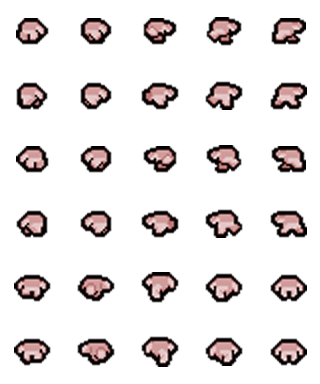
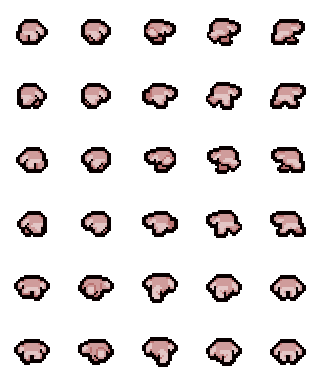
wip
- HeadDir 기능 구현 필요

diff --git a/The Binding of Isaac(Rebirth)/Player.cpp b/The Binding of Isaac(Rebirth)/Player.cpp
@@ -19,22 +19,31 @@ void APlayer::BeginPlay()
 	FVector HalfScale = GEngine->MainWindow.GetWindowScale().Half2D();
 	SetActorLocation(HalfScale);
 
-	/*{
-		HeadRenderer = CreateImageRenderer(IsaacRenderOrder::Player);
+	{
+		HeadRenderer = CreateImageRenderer(IsaacRenderOrder::PlayerHead);
 		HeadRenderer->SetImage("Head.png");
-		HeadRenderer->SetTransform({ { 0,0 }, { 50,50 } });
-		HeadRenderer->SetImageCuttingTransform({ {0,0}, {30, 30} });
-	}*/
+		HeadRenderer->SetTransform({ { 0,0 }, { 64,64 } });
+		HeadRenderer->CreateAnimation("HeadIdle", "Head.png", 7, 7, 0.1f, true);
+		HeadRenderer->CreateAnimation("HeadMove_Left", "Head.png", 1, 1, 0.1f, true);
+		HeadRenderer->CreateAnimation("HeadMove_Right", "Head.png", 3, 3, 0.1f, true);
+		HeadRenderer->CreateAnimation("HeadMove_Up", "Head.png", 5, 5, 0.1f, true);
+		HeadRenderer->CreateAnimation("HeadMove_Down", "Head.png", 7, 7, 0.1f, true);
+		
+		HeadRenderer->CreateAnimation("Attack_Left", "Head.png", 0, 1, fireRate, true);
+		HeadRenderer->CreateAnimation("Attack_Right", "Head.png", 2, 3, fireRate, true);
+		HeadRenderer->CreateAnimation("Attack_Up", "Head.png", 4, 5, fireRate, true);
+		HeadRenderer->CreateAnimation("Attack_Down", "Head.png", 6, 7, fireRate, true);
+	}
 
 	{
-		BodyRenderer = CreateImageRenderer(IsaacRenderOrder::Player);
+		BodyRenderer = CreateImageRenderer(IsaacRenderOrder::PlayerBody);
 		BodyRenderer->SetImage("Body.png");
-		BodyRenderer->SetTransform({ { 0,10 }, {64,64} });
-		BodyRenderer->CreateAnimation("Idle", "Body.png", 20, 20, 0.1f, true);
-		BodyRenderer->CreateAnimation("Move_Right", "Body.png", 10, 19, 0.1f, true);
-		BodyRenderer->CreateAnimation("Move_Left", "Body.png", 0, 9, 0.1f, true);
-		BodyRenderer->CreateAnimation("Move_UP", "Body.png", 20, 29, 0.1f, true);
-		BodyRenderer->CreateAnimation("Move_Down", "Body.png", 20, 29, 0.1f, true);
+		BodyRenderer->SetTransform({ { 0,28 }, {64,64} });
+		BodyRenderer->CreateAnimation("BodyIdle", "Body.png", 24, 24, 0.1f, true);
+		BodyRenderer->CreateAnimation("BodyMove_Left", "Body.png", 0, 9, 0.1f, true);
+		BodyRenderer->CreateAnimation("BodyMove_Right", "Body.png", 10, 19, 0.1f, true);
+		BodyRenderer->CreateAnimation("BodyMove_UP", "Body.png", 20, 29, 0.1f, true);
+		BodyRenderer->CreateAnimation("BodyMove_Down", "Body.png", 20, 29, 0.1f, true);
 	}
 
 	StateChange(EPlayState::Idle);
@@ -45,64 +54,60 @@ void APlayer::Tick(float _DeltaTime)
 	AActor::Tick(_DeltaTime);
 
 	StateUpdate(_DeltaTime);
-
-	//if (true == UEngineInput::IsPress('A'))
-	//{
-	//	AddActorLocation(FVector::Left * 500.0f * _DeltaTime);
-
-	//}
-
-	//if (true == UEngineInput::IsPress('D'))
-	//{
-	//	AddActorLocation(FVector::Right * 500.0f * _DeltaTime);
-	//}
-
-	//if (true == UEngineInput::IsPress('W'))
-	//{
-	//	AddActorLocation(FVector::Up * 500.0f * _DeltaTime);
-	//}
-
-	//if (true == UEngineInput::IsPress('S'))
-	//{
-	//	AddActorLocation(FVector::Down * 500.0f * _DeltaTime);
-	//}
-
-	//if (true == UEngineInput::IsDown('T'))
-	//{
-	//	BodyRenderer->Destroy();
-	//}
-
-	//if (true == UEngineInput::IsDown('Q'))
-	//{
-	//	ABullet* NewBullet = GetWorld()->SpawnActor<ABullet>();
-	//	NewBullet->SetActorLocation(GetActorLocation());
-	//	NewBullet->SetDir(FVector::Right);
-	//}
 }
 
-void APlayer::DirCheck()
+void APlayer::BodyDirCheck()
 {
-	EActorDir Dir = DirState;
+	EActorDir BodyDir = BodyDirState;
 	if (UEngineInput::IsPress('A'))
 	{
-		Dir = EActorDir::Left;
+		BodyDir = EActorDir::Left;
 	}
 	if (UEngineInput::IsPress('D'))
 	{
-		Dir = EActorDir::Right;
+		BodyDir = EActorDir::Right;
 	}
 	if (UEngineInput::IsPress('W'))
 	{
-		Dir = EActorDir::Up;
+		BodyDir = EActorDir::Up;
 	}
 	if (UEngineInput::IsPress('S'))
 	{
-		Dir = EActorDir::Down;
+		BodyDir = EActorDir::Down;
 	}
 
-	if (Dir != DirState)
+	if (BodyDir != BodyDirState)
 	{
-		DirState = Dir;
+		BodyDirState = BodyDir;
+		std::string Name = GetAnimationName(CurAnimationName);
+
+		BodyRenderer->ChangeAnimation(Name, true, BodyRenderer->GetCurAnimationFrame(), BodyRenderer->GetCurAnimationTime());
+	}
+}
+
+void APlayer::HeadDirCheck()
+{
+	EActorDir HeadDir = HeadDirState;
+	if (UEngineInput::IsPress(VK_LEFT))
+	{
+		HeadDir = EActorDir::Left;
+	}
+	if (UEngineInput::IsPress(VK_RIGHT))
+	{
+		HeadDir = EActorDir::Right;
+	}
+	if (UEngineInput::IsPress(VK_UP))
+	{
+		HeadDir = EActorDir::Up;
+	}
+	if (UEngineInput::IsPress(VK_DOWN))
+	{
+		HeadDir = EActorDir::Down;
+	}
+
+	if (HeadDir != HeadDirState)
+	{
+		HeadDirState = HeadDir;
 		std::string Name = GetAnimationName(CurAnimationName);
 
 		BodyRenderer->ChangeAnimation(Name, true, BodyRenderer->GetCurAnimationFrame(), BodyRenderer->GetCurAnimationTime());
@@ -113,7 +118,7 @@ std::string APlayer::GetAnimationName(std::string _Name)
 {
 	std::string DirName = "";
 
-	switch (DirState)
+	switch (BodyDirState)
 	{
 	case EActorDir::Left:
 		DirName = "_Left";
@@ -213,7 +218,7 @@ void APlayer::MoveUpdate(float _DeltaTime)
 void APlayer::CalMoveVector(float _DeltaTime)
 {
 	FVector CheckPos = GetActorLocation();
-	switch (DirState)
+	switch (BodyDirState)
 	{
 	case EActorDir::Left:
 		CheckPos.X -= 30;
@@ -269,7 +274,7 @@ void APlayer::MoveLastMoveVector(float _DeltaTime)
 
 void APlayer::Move(float _DeltaTime)
 {
-	DirCheck();
+	BodyDirCheck();
 
 	if (UEngineInput::IsFree('A') && UEngineInput::IsFree('D') && UEngineInput::IsFree('W') && UEngineInput::IsFree('S') &&
 		UEngineInput::IsFree(VK_LEFT) && UEngineInput::IsFree(VK_RIGHT) && UEngineInput::IsFree(VK_UP) && UEngineInput::IsFree(VK_DOWN))
@@ -300,47 +305,60 @@ void APlayer::Move(float _DeltaTime)
 
 void APlayer::Attack(float _DeltaTime)
 {
-	if (true == UEngineInput::IsDown(VK_LEFT))
+	BodyDirCheck();
+
+	if (UEngineInput::IsFree('A') && UEngineInput::IsFree('D') && UEngineInput::IsFree('W') && UEngineInput::IsFree('S') &&
+		UEngineInput::IsFree(VK_LEFT) && UEngineInput::IsFree(VK_RIGHT) && UEngineInput::IsFree(VK_UP) && UEngineInput::IsFree(VK_DOWN))
 	{
-		ABullet* NewBullet = GetWorld()->SpawnActor<ABullet>();
-		NewBullet->SetActorLocation(GetActorLocation());
-		NewBullet->SetDir(FVector::Left);
+		StateChange(EPlayState::Idle);
+		return;
 	}
-	if (true == UEngineInput::IsDown(VK_RIGHT))
-	{
-		ABullet* NewBullet = GetWorld()->SpawnActor<ABullet>();
-		NewBullet->SetActorLocation(GetActorLocation());
-		NewBullet->SetDir(FVector::Right);
-	}
-	if (true == UEngineInput::IsDown(VK_UP))
-	{
-		ABullet* NewBullet = GetWorld()->SpawnActor<ABullet>();
-		NewBullet->SetActorLocation(GetActorLocation());
-		NewBullet->SetDir(FVector::Up);
-	}
-	if (true == UEngineInput::IsDown(VK_DOWN))
-	{
-		ABullet* NewBullet = GetWorld()->SpawnActor<ABullet>();
-		NewBullet->SetActorLocation(GetActorLocation());
-		NewBullet->SetDir(FVector::Down);
-	}
+
+	//if (true == UEngineInput::IsDown(VK_LEFT))
+	//{
+	//	ABullet* NewBullet = GetWorld()->SpawnActor<ABullet>();
+	//	NewBullet->SetActorLocation(GetActorLocation());
+	//	NewBullet->SetDir(FVector::Left);
+	//}
+	//if (true == UEngineInput::IsDown(VK_RIGHT))
+	//{
+	//	ABullet* NewBullet = GetWorld()->SpawnActor<ABullet>();
+	//	NewBullet->SetActorLocation(GetActorLocation());
+	//	NewBullet->SetDir(FVector::Right);
+	//}
+	//if (true == UEngineInput::IsDown(VK_UP))
+	//{
+	//	ABullet* NewBullet = GetWorld()->SpawnActor<ABullet>();
+	//	NewBullet->SetActorLocation(GetActorLocation());
+	//	NewBullet->SetDir(FVector::Up);
+	//}
+	//if (true == UEngineInput::IsDown(VK_DOWN))
+	//{
+	//	ABullet* NewBullet = GetWorld()->SpawnActor<ABullet>();
+	//	NewBullet->SetActorLocation(GetActorLocation());
+	//	NewBullet->SetDir(FVector::Down);
+	//}
+
+	MoveUpdate(_DeltaTime);
 }
 
 void APlayer::IdleStart()
 {
-	BodyRenderer->ChangeAnimation("Idle");
-	DirCheck();
+	BodyDirCheck();
+	HeadRenderer->ChangeAnimation("HeadIdle");
+	BodyRenderer->ChangeAnimation("BodyIdle");
 }
 
 void APlayer::MoveStart()
 {
-	BodyRenderer->ChangeAnimation(GetAnimationName("Move"));
-	DirCheck();
+	BodyDirCheck();
+	HeadRenderer->ChangeAnimation(GetAnimationName("HeadMove"));
+	BodyRenderer->ChangeAnimation(GetAnimationName("BodyMove"));
 }
 
 void APlayer::AttackStart()
 {
-	BodyRenderer->ChangeAnimation(GetAnimationName("Attack"));
-	DirCheck();
+	BodyDirCheck();
+	HeadRenderer->ChangeAnimation(GetAnimationName("Attack"));
 }
 

diff --git a/The Binding of Isaac(Rebirth)/Player.h b/The Binding of Isaac(Rebirth)/Player.h
@@ -23,7 +23,8 @@ protected:
 	void BeginPlay() override;
 	void Tick(float _DeltaTime) override;
 
-	void DirCheck();
+	void BodyDirCheck();
+	void HeadDirCheck();
 
 	std::string GetAnimationName(std::string _Name);
 
@@ -42,11 +43,12 @@ protected:
 	void AttackStart();
 
 	EPlayState State = EPlayState::None;
-	EActorDir DirState = EActorDir::Right;
+	EActorDir BodyDirState = EActorDir::Right;
+	EActorDir HeadDirState = EActorDir::Right;
 	std::string CurAnimationName = "None";
 
 private:
-	float fireRate = 0.0f;
+	float fireRate = 1.0f;
 
 	UImageRenderer* HeadRenderer = nullptr;
 	UImageRenderer* BodyRenderer = nullptr;

diff --git a/The Binding of Isaac(Rebirth)/Bullet.cpp b/The Binding of Isaac(Rebirth)/Bullet.cpp
@@ -1,6 +1,7 @@
 #include "Bullet.h"
 #include <Windows.h>
 #include <EngineCore\EngineCore.h>
+#include "ContentsHelper.h"
 
 ABullet::ABullet()
 {
@@ -13,7 +14,7 @@ ABullet::~ABullet()
 
 void ABullet::BeginPlay()
 {
-	UImageRenderer* Renderer = CreateImageRenderer(1);
+	UImageRenderer* Renderer = CreateImageRenderer(IsaacRenderOrder::Bullet);
 	Renderer->SetImage("Tears.png");
 	Renderer->SetTransform({ {0,0}, {30, 30} });
 	Renderer->SetImageCuttingTransform({ {0,0}, {26, 25} });

diff --git a/The Binding of Isaac(Rebirth)/PlayLevel.cpp b/The Binding of Isaac(Rebirth)/PlayLevel.cpp
@@ -27,7 +27,7 @@ void UPlayLevel::BeginPlay()
 		std::string FullPath = File.GetFullPath();
 		UEngineResourcesManager::GetInst().LoadImg(FullPath);
 	}
-
+	UEngineResourcesManager::GetInst().CuttingImage("Head.png", 5, 2);
 	UEngineResourcesManager::GetInst().CuttingImage("Body.png", 5, 6);
 
 	SpawnActor<APlayer>();

diff --git a/The Binding of Isaac(Rebirth)/ContentsHelper.h b/The Binding of Isaac(Rebirth)/ContentsHelper.h
@@ -7,7 +7,9 @@ enum IsaacRenderOrder
 {
 	Map,
 	Monster,
-	Player
+	PlayerBody,
+	PlayerHead,
+	Bullet,
 };
 
 enum class IsaacCollisionOrder
